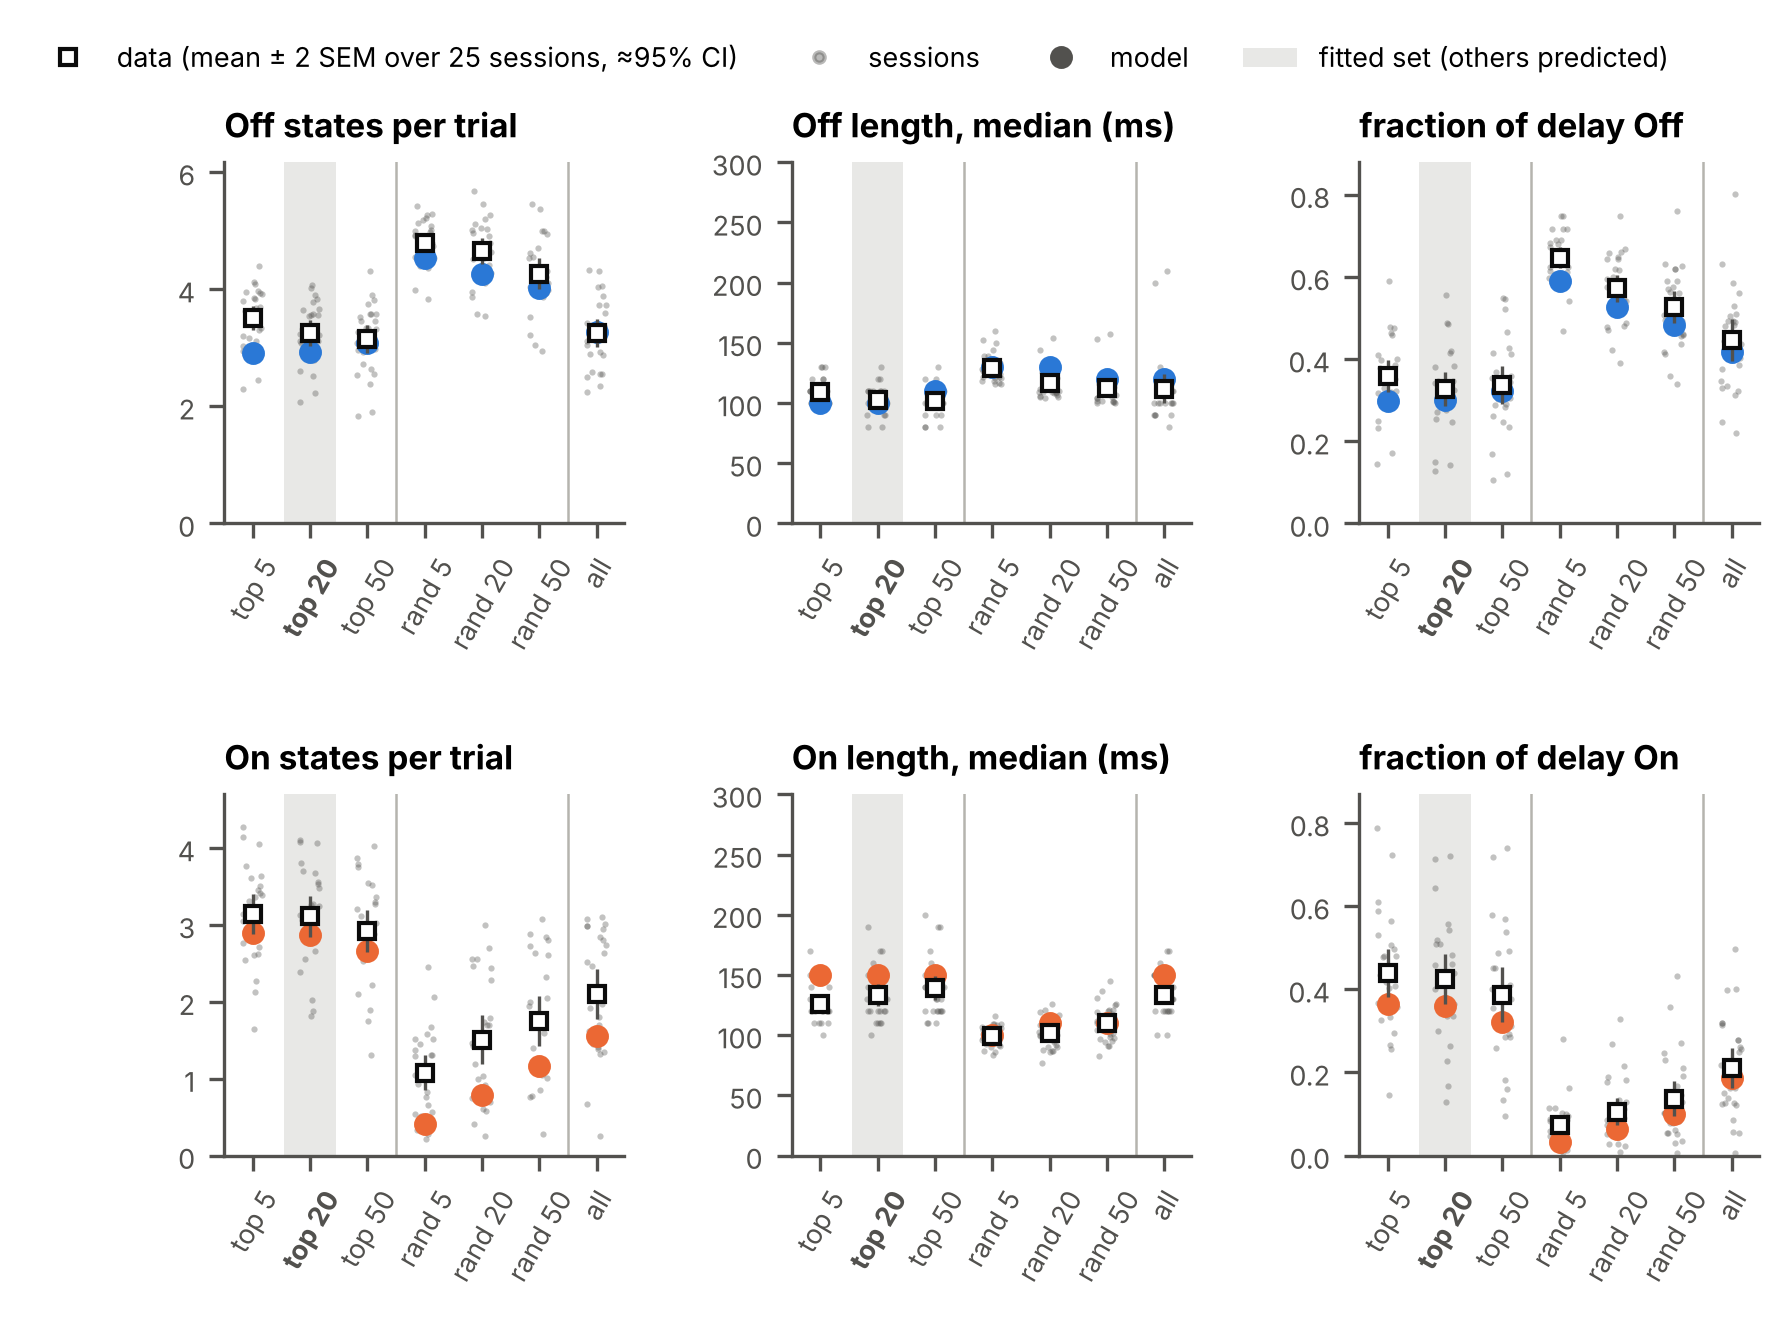
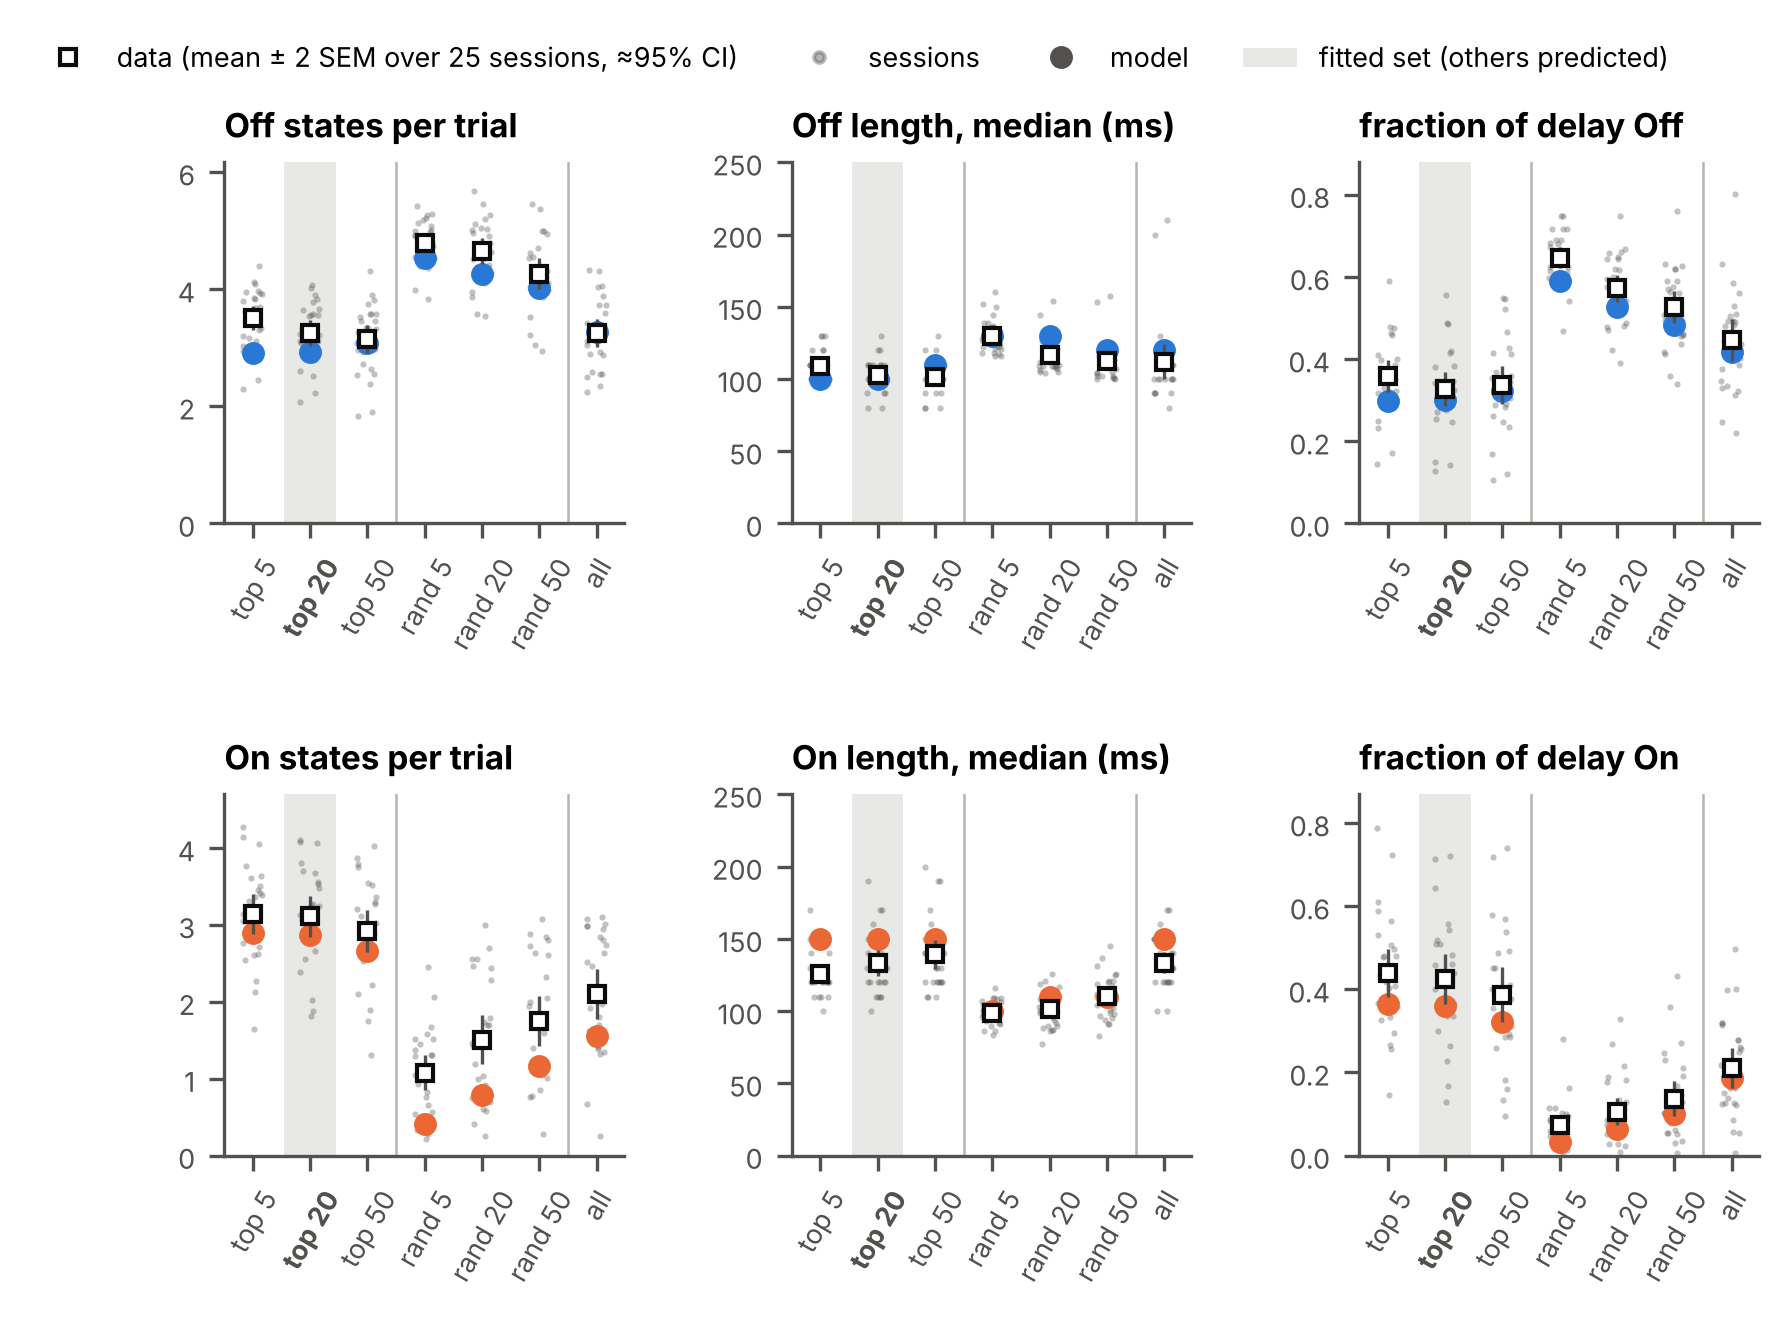
Figure 2: length axes 0-250 ms
Claude-Session: https://claude.ai/code/session_01DWA8oLxpZgubPZ4A6kb3Lh

Changed region(s): [[0.3999, 0.5915, 0.6767, 0.8405], [0.3999, 0.1557, 0.6767, 0.3113], [0.3999, 0.3424, 0.4306, 0.3736]]

diff --git a/paper_model/make_figures.py b/paper_model/make_figures.py
@@ -170,7 +170,7 @@ def figure2(out, summ, path):
         j = R.SETS.index(M.FIT_SET)
         a.axvspan(j - 0.45, j + 0.45, color=MUTED, alpha=0.3, lw=0, zorder=0)    # the set the dynamics were fitted to
         a.get_xticklabels()[j].set_fontweight('bold')
-        a.set_ylim(0, 300 if mk in ('off_median', 'on_median') else a.get_ylim()[1] * 1.05)   # lengths: same axis
+        a.set_ylim(0, 250 if mk in ('off_median', 'on_median') else a.get_ylim()[1] * 1.05)   # lengths: same axis
         a.tick_params(labelsize=6.5)
     fig.legend(handles=[Line2D([], [], ls='', marker='s', ms=4, mfc='white', mec=INK, label='data (mean ± 2 SEM over 25 sessions, ≈95% CI)'),
                         Line2D([], [], ls='', marker='.', ms=5, color=INK2, alpha=0.4, label='sessions'),
